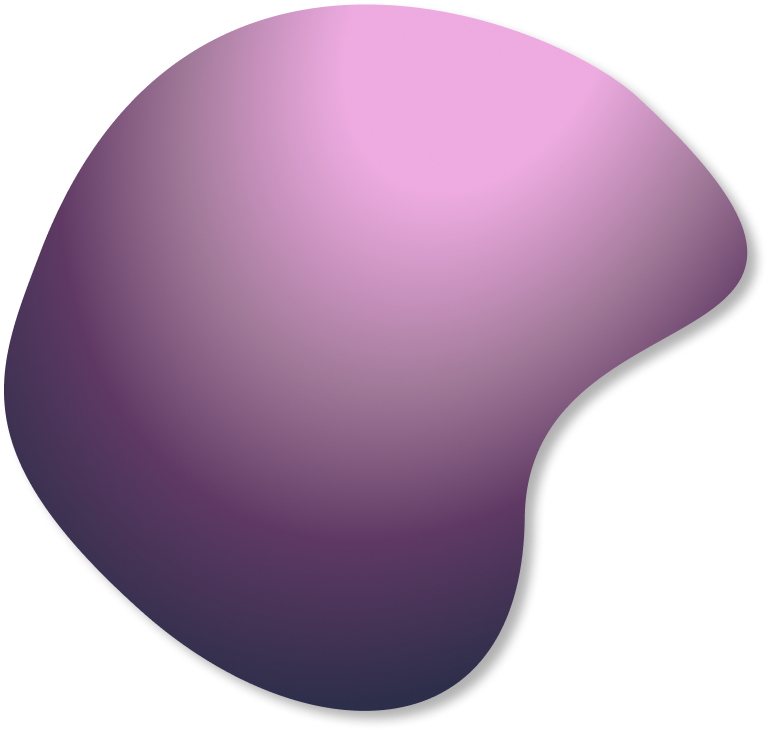
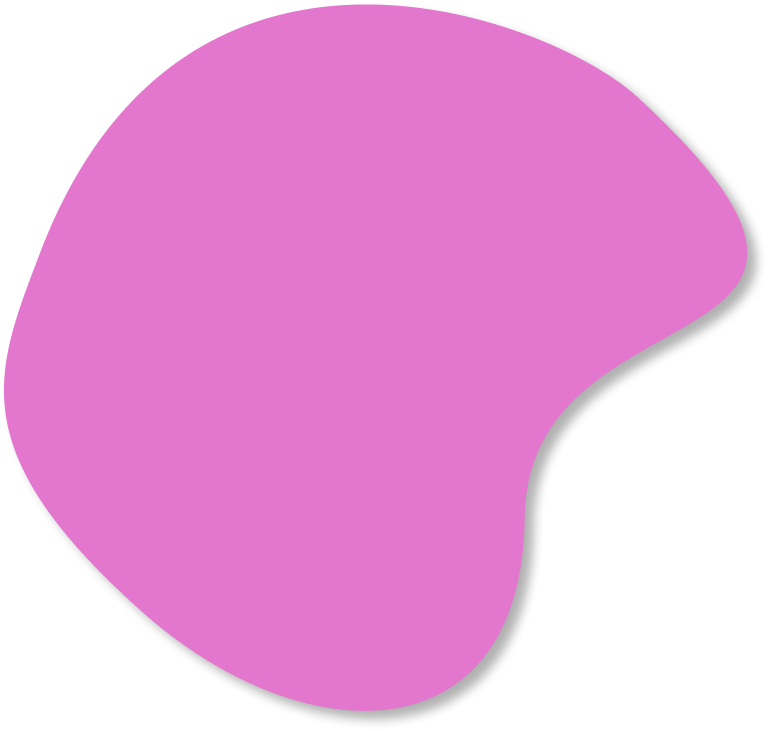
new Commit resily rework em landing page

diff --git a/resilyPaginasLinkadas/css/style.css b/resilyPaginasLinkadas/css/style.css
@@ -63,7 +63,7 @@ body{
     height: 100%;
     font-family: 'westmount';
 }
-/* CABEÇALHO */
+/* CABEÃ‡ALHO */
 .cabecalho{
     position: fixed;
     top: 0;
@@ -132,12 +132,11 @@ a:hover{
     height: 514px;
     margin-bottom: 10px;
     top: 113px;
-    left: 158px;
+    left: 104px;
     border-radius: 45px;
     box-shadow: 7px 6px 8.1px #00000091;
-    background: rgb(236,123,212);
-    background: linear-gradient(145deg, rgba(236,123,212,0.9178046218487395) 7%, rgba(58,49,75,0.9598214285714286) 68%, rgba(45,46,74,0.9822303921568627) 78%);
-}
+    background-color: #2D2E4A;
+    }
 .boxTop .logoCentro{
     display: flex;
     justify-content: center;
@@ -220,7 +219,7 @@ a:hover{
 
 
 
-/* CONHAÇA A RESILY */
+/* CONHAÃ‡A A RESILY */
 .sobre-nos{
     margin-top: 90px;
     display: flex;
@@ -239,6 +238,7 @@ a:hover{
     position: absolute;
     top: 2053px;
     left: 20px;
+    margin-bottom: 100px;
 }
 
 .card0{
@@ -313,8 +313,7 @@ a:hover{
     height: 53px;
     border-radius: 10px;
     box-shadow: var(--SOMBRA);
-    background: rgb(45,46,74);
-    background: linear-gradient(317deg, rgba(45,46,74,1) 14%, rgba(236,123,212,1) 100%);
+    background-color: #e277cd;
 }
 
 .textoBotao{
@@ -409,8 +408,7 @@ line-height: normal;
     height: 53px;
     border-radius: 10px;
     box-shadow: var(--SOMBRA);
-    background: rgb(45,46,74);
-    background: linear-gradient(317deg, rgba(45,46,74,1) 14%, rgba(236,123,212,1) 100%);
+    background-color:#e277cd
 }
 
 .textoBotao2{
@@ -518,8 +516,7 @@ line-height: normal;
     height: 53px;
     border-radius: 10px;
     box-shadow: var(--SOMBRA);
-    background: rgb(45,46,74);
-    background: linear-gradient(317deg, rgba(45,46,74,1) 14%, rgba(236,123,212,1) 100%);
+    background-color: #e277cd;
 }
 
 .textoBotao3{
@@ -601,9 +598,99 @@ text-decoration: none;
     z-index: 1;
 }
 
+
+
+.boxIdentidadeVisual{
+    display: flex;
+    align-content: center;
+    position: relative;
+    flex-wrap: wrap;
+    align-items: flex-start;
+    margin-top: 31px;
+}
+
+.econtentIdentidadeVisual p{
+    font-size: 40px;
+    color: #5E3963;
+    display: flex;
+    align-items: center;
+    position: absolute;
+    top: -59px;
+}
+
+.econtentIdentidadeVisual{
+    position: relative;
+    width: 1006px;
+    height: 514px;
+    top: 744px;
+    left: 186px;
+    display: flex;
+    justify-content: center;
+    background-color: #C8C0DC;
+    align-items: center;
+    border-radius: 50px;
+}
+
+
+.cores.imgIdentidadeVisual {
+    display: flex;
+
+}
+.imgIdentidadeVisual{
+    position: absolute;
+    display: flex;
+    left: 59px;
+    top: 26px;
+    scale: 92%;
+}
+.coresIndentidadeVisual .rosaIdentidadeVisual{
+    display: flex;
+    position: absolute;
+    top: 137px;
+    left: 11px;
+    text-align: left;
+    font-size: 20px;
+    width: 16rem;
+    text-align: left;
+    font-weight: bold;
+}
+.coresIndentidadeVisual .azulIdentidadeVisual{
+    display: flex;
+    position: absolute;
+    top: 326px;
+    left: 11px;
+    text-align: left;
+    font-size: 20px;
+    width: 16rem;
+    font-weight: bold;
+    text-align: left;
+}
+
+.logoImagensIdentidade{
+    display: flex;
+    position: absolute;
+    top: 162px;
+    left: 418px;
+}
+
+
+
+.espacoEntre{
+    position: relative;
+    width: 1006px;
+    height: 514px;
+    top: 800px;
+    left: 186px;
+    display: flex;
+    justify-content: center;
+    align-items: center;
+}
+
+
 /* SIGN IN */
 
 
 
 /* LOGIN *//*
+
 

diff --git a/resilyPaginasLinkadas/index.html b/resilyPaginasLinkadas/index.html
@@ -118,8 +118,24 @@
         <div class="elementoFundo01"><img src="./img/Ellipse 32.png" alt=""></div>
     </div>
     
-  
-      
+
+    <div class="boxIdentidadeVisual">
+      <div class="econtentIdentidadeVisual">
+        <p>NOSSA IDENTIDADE VISUAL</p>
+        <div class="coresIndentidadeVisual">
+          <img src="./img/cores.png" class="imgIdentidadeVisual">
+          <p class="rosaIdentidadeVisual">A escolha do rosa foi por nos trazer a ideia de afeto e delicadeza</p>
+          <p class="azulIdentidadeVisual">O azul escuro foi escolhido para trazer a seriedade que precisamos</p>
+        </div>
+        <div class="logoIndentidadeVisual">
+          <img src="./img/TEXT.png" class="logoImagensIdentidade">
+        </div>
+        
+      </div>
+
+    </div>
+    <div class="espacoEntre">
+    </div>
 
 
     <script src="https://code.jquery.com/jquery-3.3.1.slim.min.js" integrity="sha384-q8i/X+965DzO0rT7abK41JStQIAqVgRVzpbzo5smXKp4YfRvH+8abtTE1Pi6jizo" crossorigin="anonymous"></script>

diff --git a/resilyPaginasLinkadas/Pages/Rede/rede.html b/resilyPaginasLinkadas/Pages/Rede/rede.html
@@ -66,13 +66,13 @@
             <div id="carouselExampleRide" class="carousel slide" data-bs-ride="true">
                 <div class="carousel-inner">
                     <div class="carousel-item active">
-                        <img class="rounded" src="./img/dica_01.png" alt="">
+                        <img class="rounded" src="./img/topico01.png" alt="">
                     </div>
                     <div class="carousel-item">
-                        <img class="imgTopico" src="./img/dica_02.png" alt="">
+                        <img class="imgTopico" src="./img/topico02.png" alt="">
                     </div>
                     <div class="carousel-item">
-                        <img class="imgTopico" src="./img/dica_03.png" alt="">
+                        <img class="imgTopico" src="./img/topico03.png" alt="">
                     </div>
                 </div>
                 <div class="botaoCarrossel">
